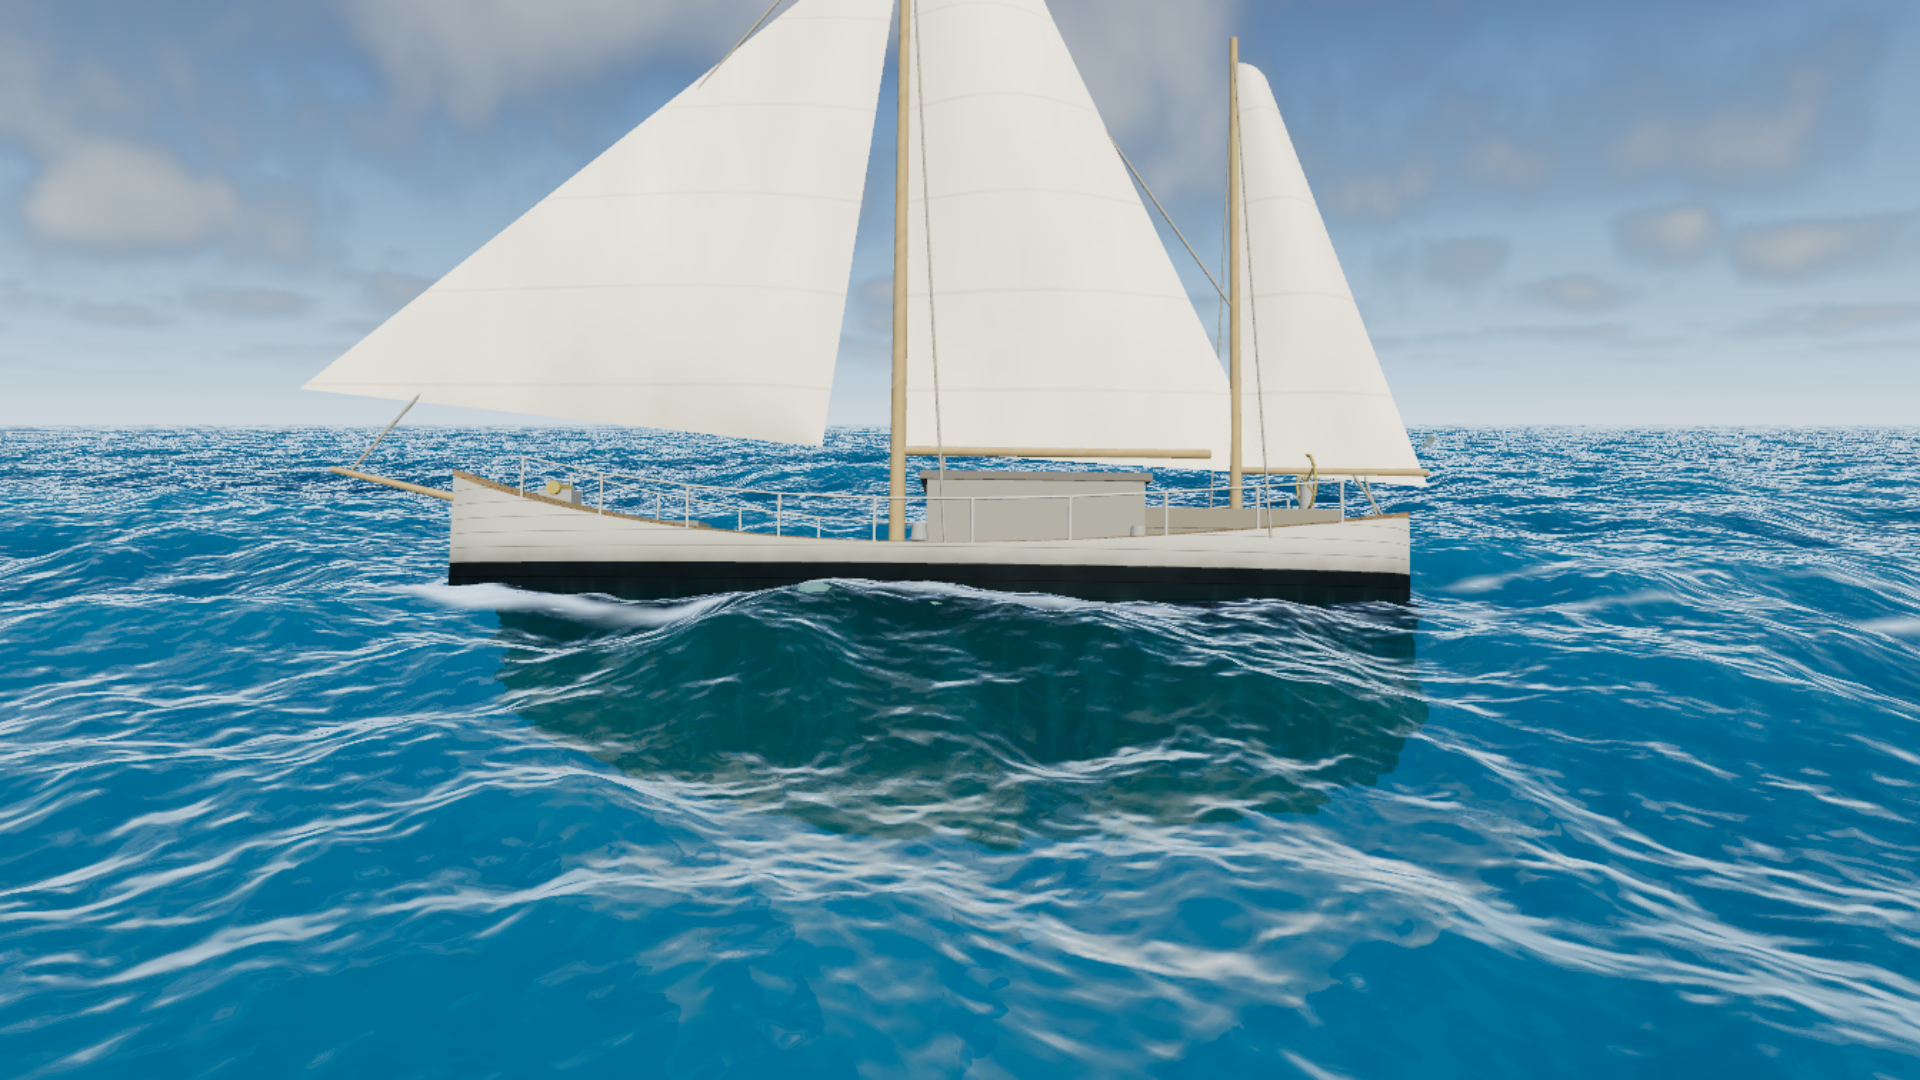
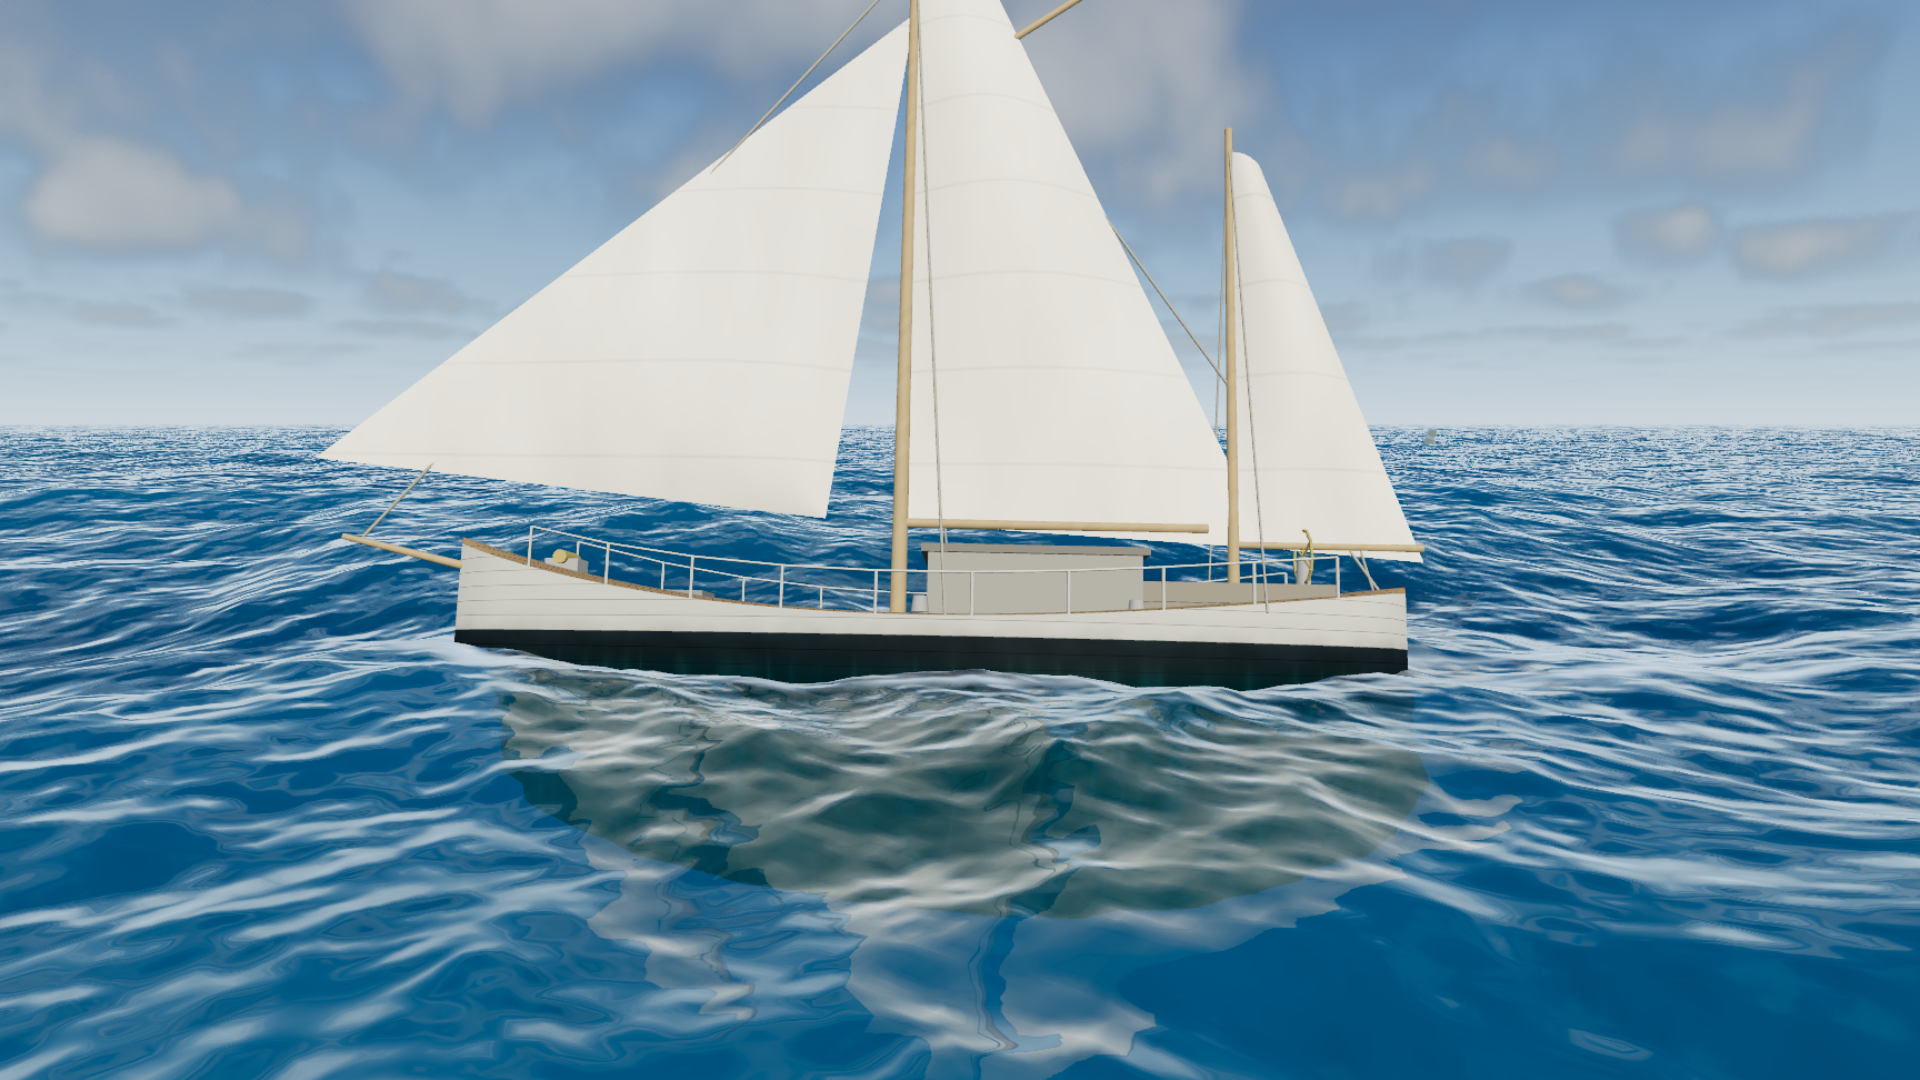
Let the deep water go dark, so Fresnel has something to grade
The sea was one flat blue from the foreground to the horizon, and that
uniformity is most of what reads as a rendering rather than a photograph.

Fresnel was never the problem: it grades correctly, about 14% reflection looking
down at the near water and 64% at the mid-distance. But a gradient is only
visible if its ends differ, and both ends were blue — a bright blue body mixed
into a pale blue sky. Real deep ocean is nearly black, and that darkness is what
turns the Fresnel ramp into the dark-near, silver-far read that a photograph of
open water always has.

The body was bright because the upwelling term is `waterScatter * skyLight *
0.80`, a constant with no connection to the water it is supposed to be leaving.
Meanwhile two lines above we compute `albedo = bb/(a+bb)` — literally the
fraction of light that goes in and comes back out — and divide its magnitude
away to keep only the hue. Same shape as the other faults this project has
found: the physical quantity was computed and then the part that mattered was
normalised out.

So the scatter is scaled by the albedo it came from. Open water, where blue
albedo is about a half and red a twentieth, goes dark. Only on the deep path:
over a bathymetry the bottom dominates through T, and Calm Lagoon and Coral
Shallows staying put is the check that this did not reach further than intended.

`scatterSat` is the kill switch; 0 restores the unscaled constant exactly.

diff --git a/src/ocean/material.js b/src/ocean/material.js
@@ -730,9 +730,30 @@ export function createOceanMaterial( env, field, sky, opts = {} ) {
 		// Volume colour = the authored deep/shallow gradient under direct light,
 		// plus upwelling scattered skylight. The second term is what ties the
 		// water's colour to the sky, so a preset change moves both together.
+		// The albedo's *magnitude* is the fraction of light that goes in and comes
+		// back out. We compute it, divide it away to keep only the hue, and then
+		// add an upwelling term at a fixed 0.80 that has nothing to do with it.
+		//
+		// That constant is why the sea was one flat blue from the foreground to
+		// the horizon. Fresnel does grade correctly — about 14% reflection looking
+		// down at the near water, 64% at the mid-distance — but a gradient is only
+		// visible if its two ends differ, and here a bright blue body was being
+		// mixed into a pale blue sky. Deep ocean is nearly black; that is what
+		// makes the Fresnel ramp read as dark near and silver far, and it is most
+		// of what separates a photograph from a rendering.
+		//
+		// So the scatter is scaled by the albedo it was derived from. Open water,
+		// where blue albedo is about a half and red a twentieth, goes dark. Only
+		// on the deep path: over a bathymetry the bottom dominates through T and
+		// the lagoons must stay where they are, which is also the check.
+		const albedoMag = max( albedo.r, max( albedo.g, albedo.b ) ).toVar( 'albedoMag' );
+		const scatterScale = mix(
+			float( 1.0 ), saturate( albedoMag ), gDeep.mul( u.scatterSat )
+		).toVar( 'scatterScale' );
+
 		const volume = mix( u.waterShallow, u.waterDeep, depthNorm ).mul( bodyLight )
 			.mul( mix( vec3( 1.0 ), tint, gDeep ) )
-			.add( u.waterScatter.mul( skyLight ).mul( 0.80 ).mul( skyOcc ) )
+			.add( u.waterScatter.mul( skyLight ).mul( 0.80 ).mul( skyOcc ).mul( scatterScale ) )
 			.toVar( 'volume' );
 
 		const behind = refracting ? refracted : bedColor;

diff --git a/src/env/uniforms.js b/src/env/uniforms.js
@@ -28,7 +28,7 @@ export const SCALAR_KEYS = [
 	// water optics
 	'waterClarity', 'absorptionR', 'absorptionG', 'absorptionB',
 	'roughness', 'sssStrength', 'reflectivity', 'varianceRough',
-	'volumeGeom', 'scatterStrength', 'groupStrength', 'bodySunGain', 'sparkle',
+	'volumeGeom', 'scatterStrength', 'groupStrength', 'bodySunGain', 'sparkle', 'scatterSat',
 	// foam
 	'foamAmount', 'foamThreshold', 'foamPersistence', 'foamSharpness',
 	// underwater
@@ -114,6 +114,7 @@ export function defaultParams() {
 			groupStrength: 0.35,
 			bodySunGain: 0.60,
 			sparkle: 0.85,
+			scatterSat: 1.0,
 			sssStrength: 1.0,        // back-lit wave crest translucency
 			reflectivity: 1.0,
 
@@ -217,6 +218,10 @@ export function createEnv() {
 
 		// Strength of the tight glint lobe. 0 removes it exactly.
 		sparkle: uniform( 0.85 ),
+
+		// How much the upwelling scatter is scaled by the single-scattering albedo
+		// it was computed from. 0 restores the unscaled constant exactly.
+		scatterSat: uniform( 1.0 ),
 		backscatter: uniform( new Vector3( 0.02, 0.05, 0.06 ) ),
 		waveHs: uniform( 1.8 ),
 		sssStrength: uniform( 1 ),
@@ -359,6 +364,7 @@ export function syncUniforms( env, dt = 0 ) {
 	u.groupStrength.value = p.groupStrength ?? 0.35;
 	u.bodySunGain.value = p.bodySunGain ?? 0.60;
 	u.sparkle.value = p.sparkle ?? 0.85;
+	u.scatterSat.value = p.scatterSat ?? 1.0;
 	u.waveHs.value = Math.max( 0.05, p.waveHeight );
 
 	// Backscatter shares the scatter colour's chromaticity — they describe the
